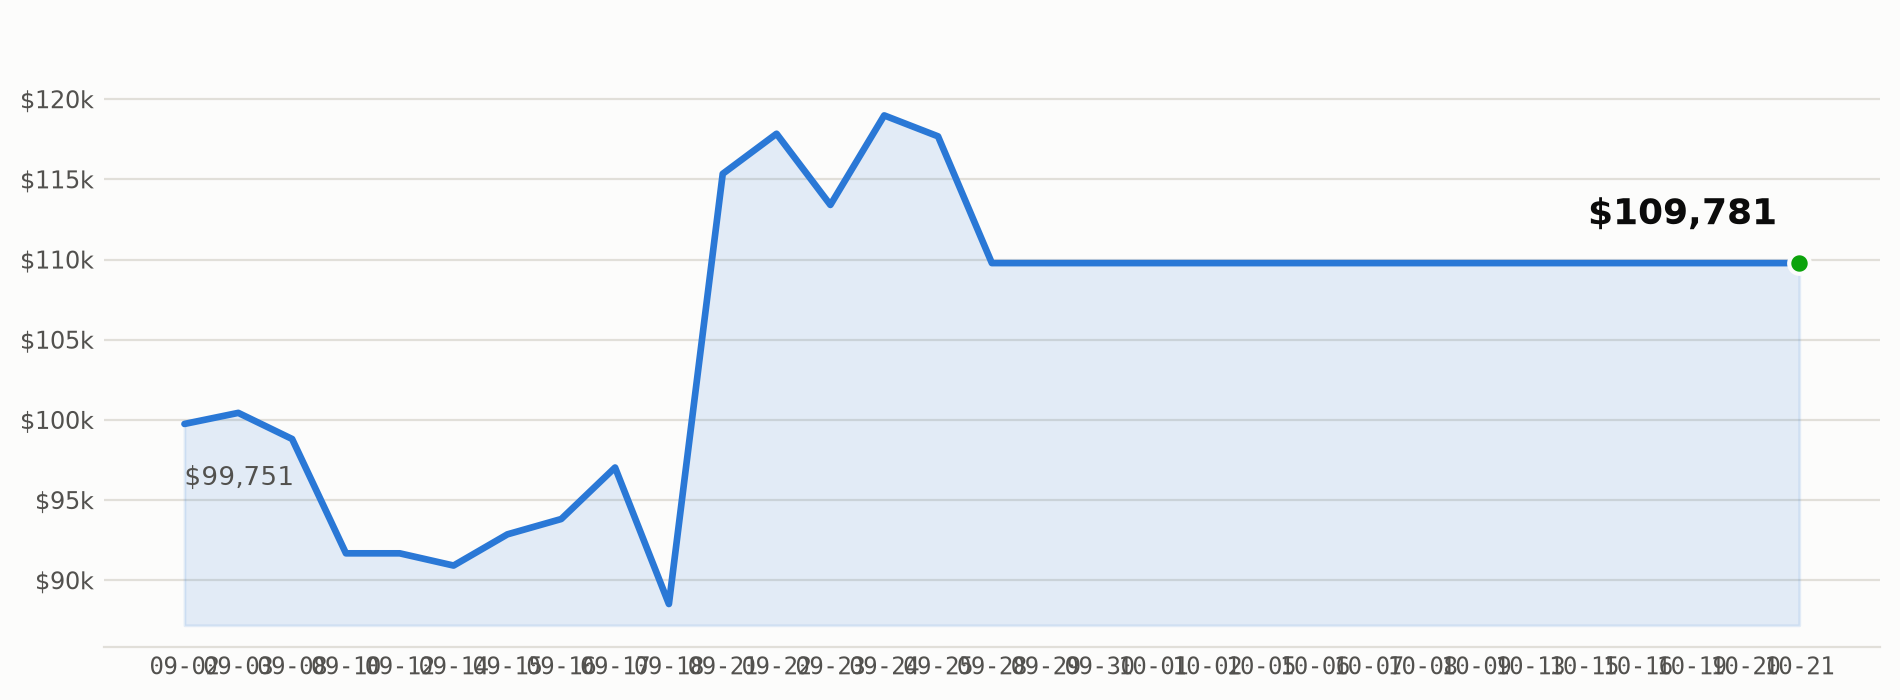
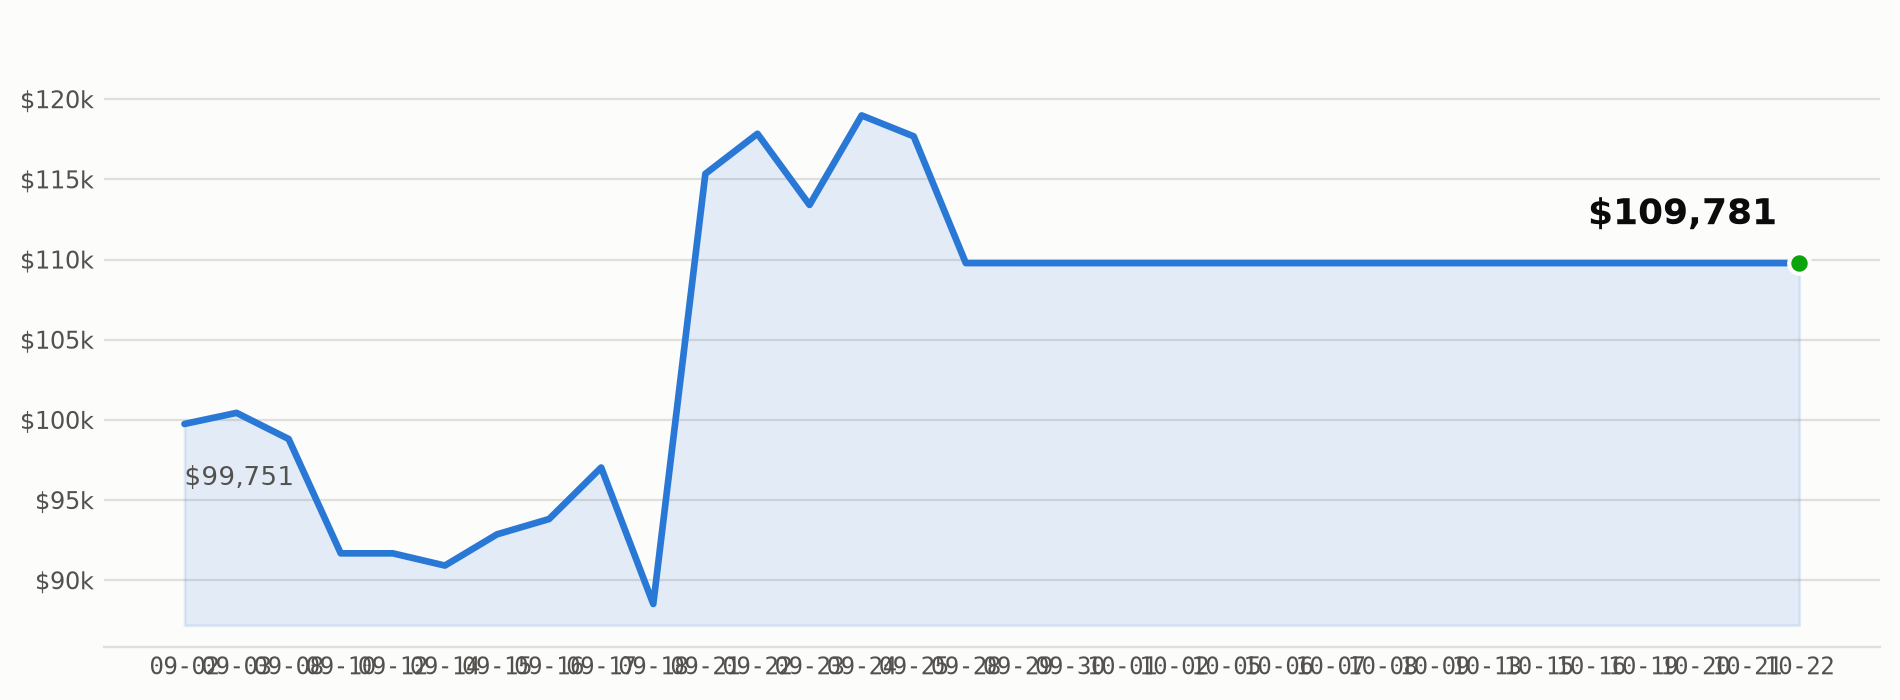
Daily dashboard update for 2026-10-22
Automated commit from scripts/daily_run.py after the market-close run.

diff --git a/README.md b/README.md
@@ -12,7 +12,7 @@ An autonomous AI trading agent for Alpaca's **Options Alpha** hackathon track.
 </p>
 
 <p align="center">
-  <img src="docs/equity_curve.png?v=2026-10-21-109781" alt="AlphaCa account equity over time, currently $109,781" width="800">
+  <img src="docs/equity_curve.png?v=2026-10-22-109781" alt="AlphaCa account equity over time, currently $109,781" width="800">
 </p>
 <!-- PNL_DASHBOARD_END -->
 
